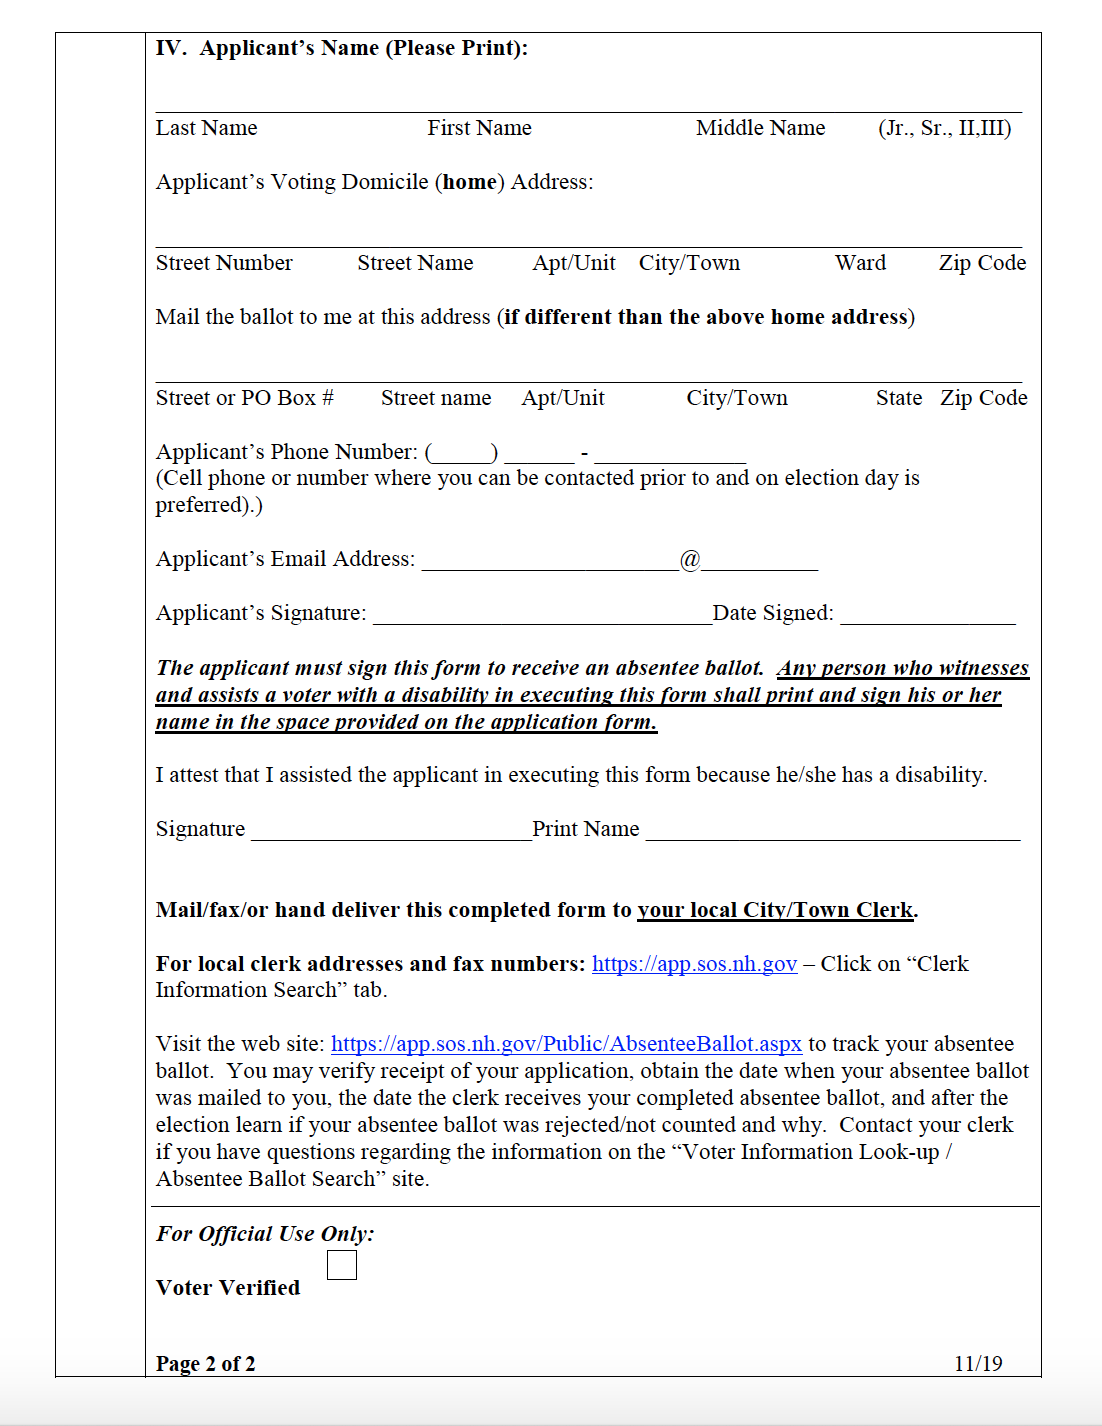
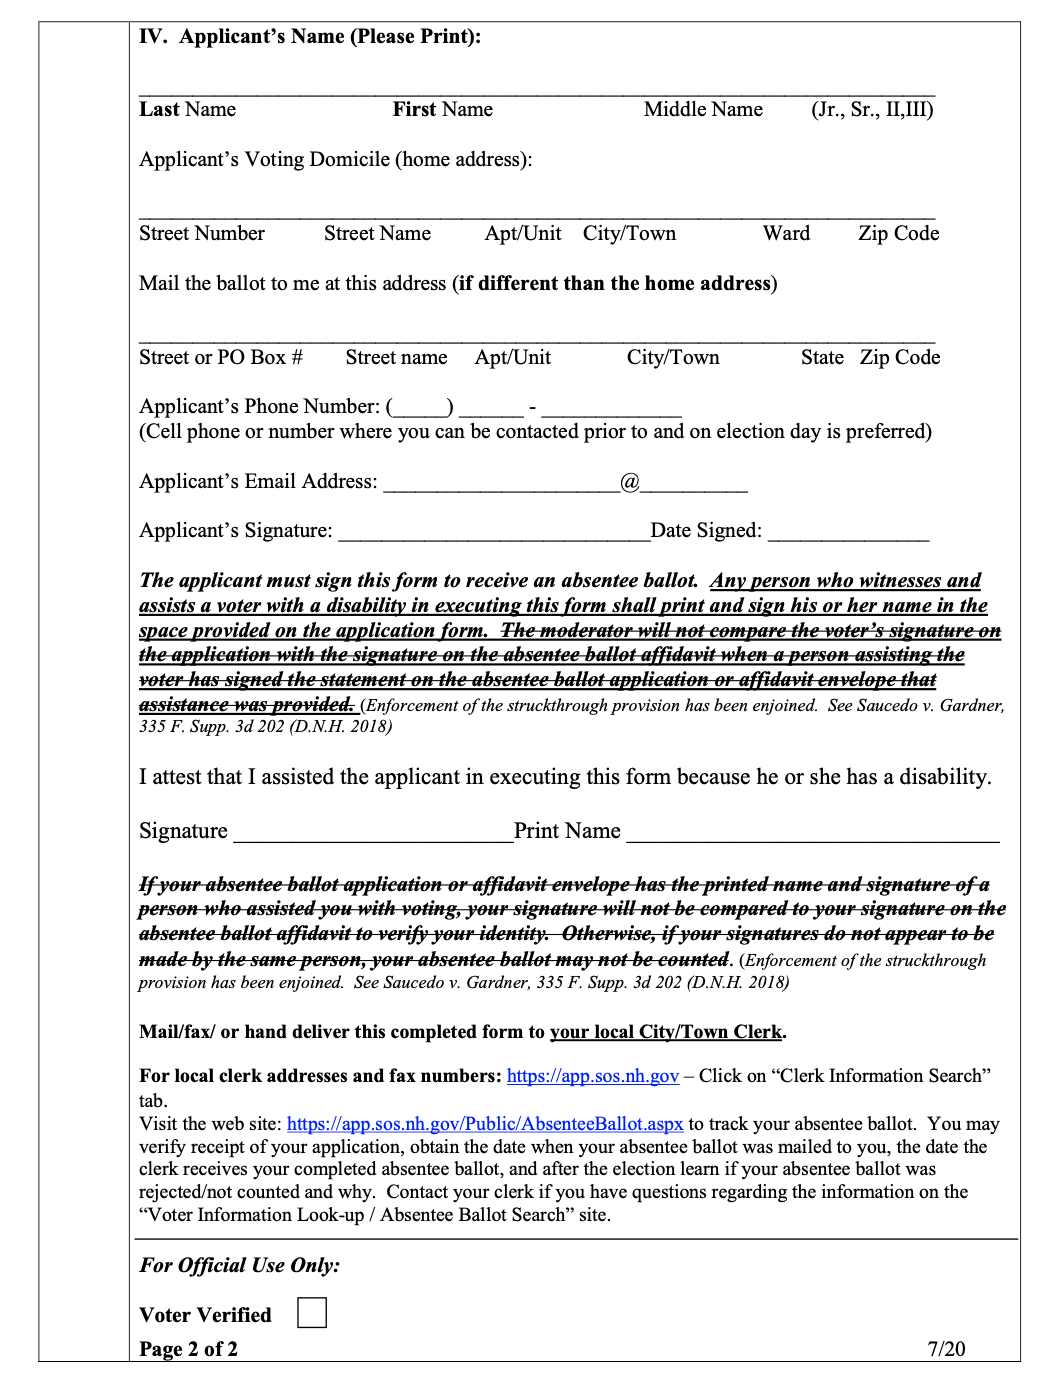
updated form

diff --git a/src/components/registration.js b/src/components/registration.js
@@ -48,6 +48,8 @@ class RegistrationForm extends Component {
       formCompleted: false,
       ballotEntitled: 0,
       errorMod: false,
+      stateGeneral: false,
+      statePrimary: false,
     };
     this.sigPad = {};
     this.sigPad2 = {};
@@ -158,8 +160,9 @@ class RegistrationForm extends Component {
                 <img className="application-image" src={CheckBoxes} alt="application-preview-firstpage" />
                 <img className={'qualifiedvoter-check-' + this.state.qualifiedVoter}  src={BallotCheck} alt="application-preview-qualifiedvoter" />
                 <img className={'ballotentitled-check-' + this.state.ballotEntitled}  src={BallotCheck} alt="application-preview-ballotentitled" />
+                {this.state.statePrimary && <img className={'stateprimary-check-' + this.state.statePrimary}  src={BallotCheck} alt="application-preview-partyaffiliation" />  }
+                {this.state.stateGeneral && <img className={'stategeneral-check-' + this.state.stateGeneral}  src={BallotCheck} alt="application-preview-partyaffiliation" /> }
                 <img className={'partyaffiliation-check-' + this.state.partyAffiliation}  src={BallotCheck} alt="application-preview-partyaffiliation" />
-                <img className='state-election-check' src={BallotCheck} alt="application-preview-stateelection" />
 
               </div>
               <div className="image" id="divToPrint2">
@@ -297,7 +300,7 @@ class RegistrationForm extends Component {
         <Modal.Header id="modal-form-header">
           <Modal.Title id="show-form-title">Request an Absentee Ballot</Modal.Title>
           <p className="show-form-description">This form is a one-step process to electronically submit an absentee
-          ballot request form for the state primary election in New Hampshire.</p>
+          ballot request form for the state primary and general election in New Hampshire.</p>
       </Modal.Header>
         <Modal.Body className="ballot-modal-body">
           <form id="applicant-info-form" onSubmit={this.handleSubmit}>
@@ -313,7 +316,7 @@ class RegistrationForm extends Component {
             <div className="form-data-container">
               <div className="formvalues-nhaddress-container">
                 <p className="form-title-container">Registered Address</p>
-                <p className="form-description-container">For students: Please enter your dorm address  from when you last cast a vote.</p>
+                <p className="form-description-container">For students: Please enter your dorm address from when you last cast a vote.</p>
                 <input className="ballot-form-labels-address" type="text" name="homeAddress" onChange={this.handleChange} placeholder="(ex: '307 Richardson Hall' or '3 Ivy Lane')" required/>
               </div>
             </div>
@@ -344,19 +347,27 @@ class RegistrationForm extends Component {
               <div className="formvalues-agreement-container">
                 <p className="form-radio-title-container">Please Select 1: I hereby declare that</p>
                 <p className="select-container"><input name="qualifiedVoter" type="radio" onChange={this.handleChangeRadio(1)} required/>  I am a duly qualified voter who is currently registered to vote in this town/ward.</p>
-                <p className="select-container"><input name="qualifiedVoter" type="radio" onChange={this.handleChangeRadio(2)} required/>  I am absent from the town/city where I am domiciled and will be until after the next election, 
-                or I am unable to register in person due to a disability, and request that the forms 
-                necessary for absentee voter registration be sent to me with the absentee ballot</p>
+                <p className="select-container"><input name="qualifiedVoter" type="radio" onChange={this.handleChangeRadio(2)} required/>  I am absent from the town/city where I am domiciled and will be until after the next election, or I am unable to 
+                register in person due to a disability or concern for the novel coronavirus (COVID-19) and request that the forms necessary for absentee voter registration be sent to me with the absentee ballot</p>
                 <p className="form-radio-title-container">Please Select 1: I will be entitled to vote by absentee ballot because </p>
                 <p className="select-container"><input name="ballotEntitled" type="radio" onChange={this.handleChangeRadio(1)} required/>  I plan to be absent on the day of the election from the city, town, or unincorporated place where I am domiciled.</p>
-                <p className="select-container"><input name="ballotEntitled" type="radio" onChange={this.handleChangeRadio(2)} required/>  I am requesting a ballot for the presidential primary election and I may be absent on the day of election from the city, 
-                town, or unincorporated place where I am domiciled, but the date of the election has not been announced. I understand that I may only make such a request 14 days after the filing period for 
-                candidates has closed, and that if I will not be absent on the date of the election I am not eligible to vote by absentee ballot.</p>
-                <p className="select-container"><input name="ballotEntitled" type="radio" onChange={this.handleChangeRadio(3)} required/>  I cannot appear in public on election day because of observance of a religious commitment.</p>
-                <p className="select-container"><input name="ballotEntitled" type="radio" onChange={this.handleChangeRadio(4)} required/>  I am unable to vote in person due to a disability.</p>
-                <p className="select-container"><input name="ballotEntitled" type="radio" onChange={this.handleChangeRadio(5)} required/>  I cannot appear at any time during polling hours at my polling place because of an employment obligation. For the 
-                purposes of this application, the term “employment” shall include the care of children and infirm adults, with or without compensation.</p>
-                <p className="form-radio-title-container">Please complete the following information:</p>
+                <p className="select-container"><input name="ballotEntitled" type="radio" onChange={this.handleChangeRadio(2)} required/>  I cannot appear in public on election day because of observance of a religious commitment.</p>
+                <p className="select-container"><input name="ballotEntitled" type="radio" onChange={this.handleChangeRadio(3)} required/>  I am unable to vote in person due to a disability.</p>
+                <p className="select-container"><input name="ballotEntitled" type="radio" onChange={this.handleChangeRadio(4)} required/>  I am unable to vote in person due to concern for the novel coronavirus (COVID-19).</p>
+                <p className="select-container"><input name="ballotEntitled" type="radio" onChange={this.handleChangeRadio(5)} required/>  I cannot appear at any time during polling hours at my polling place because of an employment obligation. 
+                For the purposes of this application the term “employment” shall include the care of children and infirm adults, with or without compensation.</p>
+                <p className="form-radio-title-container">Please complete the following information</p>
+                <p>I am requesting an official absentee ballot for the following election(s):</p>
+                <p className="select-container"><input
+                name="statePrimary"
+                type="checkbox"
+                checked={this.state.statePrimary}
+                onChange={this.handleChangeSelected} required/> State Primary Election to be held on September 8, 2020</p> 
+                <p className="select-container"><input
+                name="stateGeneral"
+                type="checkbox"
+                checked={this.state.stateGeneral}
+                onChange={this.handleChangeSelected}/> State General Election to be held on November 3, 2020</p> 
                 <p className="select-container"><input
                 name="partyAff"
                 type="checkbox"
@@ -427,7 +438,7 @@ class RegistrationForm extends Component {
       return (
         <div className="thank-you-note">
           <p className="thank-you-title">Thank you!</p>
-          <p className="thank-you-description">Thank you for applying for an absentee ballot. It will be delivered late August. Happy election season!</p>
+          <p className="thank-you-description">Thank you for applying for an absentee ballot. Happy election season!</p>
         </div>
       )
     }

diff --git a/src/styles/registration.scss b/src/styles/registration.scss
@@ -243,109 +243,117 @@
     .qualifiedvoter-check-1 {
       width: 6px;
       position: absolute;
-      top: 57px;
-      left: 54px;
+      top: 67px;
+      left: 53px;
     }
 
     .qualifiedvoter-check-2 {
       width: 6px;
       position: absolute;
-      top: 67px;
-      left: 54px;
+      top: 77px;
+      left: 53px;
     }
 
     .ballotentitled-check-1 {
       width: 6px;
       position: absolute;
-      top: 108px;
-      left: 54px;
+      top: 140px;
+      left: 53px;
     }
 
     .ballotentitled-check-2 {
       width: 6px;
       position: absolute;
-      top: 128px;
-      left: 54px;
+      top: 162px;
+      left: 53px;
     }
 
     .ballotentitled-check-3 {
       width: 6px;
       position: absolute;
-      top: 178px;
-      left: 54px;
+      top: 183px;
+      left: 53px;
     }
 
     .ballotentitled-check-4 {
       width: 6px;
       position: absolute;
-      top: 200px;
-      left: 54px;
+      top: 194px;
+      left: 53px;
     }
 
     .ballotentitled-check-5 {
       width: 6px;
       position: absolute;
-      top: 210px;
-      left: 54px;
+      top: 205px;
+      left: 53px;
+    }
+
+    .stateprimary-check-true {
+      width: 6px;
+      position: absolute;
+      top: 298px;
+      left: 70px;
+    }
+
+
+    .stategeneral-check-true {
+      width: 6px;
+      position: absolute;
+      top: 319px;
+      left: 70px;
     }
 
     .partyaffiliation-check-Democrat {
       width: 6px;
       position: absolute;
-      top: 424px;
-      left: 149px;
+      top: 382px;
+      left: 64px;
     }
 
     .partyaffiliation-check-Republican {
       width: 6px;
       position: absolute;
-      top: 424px;
-      left: 229px;
-    }
-
-    .state-election-check {
-      width: 6px;
-      position: absolute;
-      top: 412px;
-      left: 54px;
+      top: 371px;
+      left: 65px;
     }
 
     .image-last-name {
-      top: 30px;
-      left: 60px;
+      top: 26px;
+      left: 57px;
       width: 100%;
     }
 
     .image-first-name {
-      top: 30px;
-      left: 156px;
+      top: 26px;
+      left: 150px;
       width: 100%;
     }
 
     .image-middle-name {
-      top: 30px;
-      left: 250px;
+      top: 26px;
+      left: 247px;
       width: 100%;
     }
 
     .image-title {
-      top: 30px;
-      left: 330px;
+      top: 26px;
+      left: 327px;
       width: 100%;
     }
     .image-home-address {
-      top: 80px;
-      left: 56px;
+      top: 73px;
+      left: 53px;
       width: 100%;
     }
     .image-cityname-h {
-      top: 80px;
-      left: 230px;
+      top: 73px;
+      left: 227px;
       width: 100%;
     }
     .image-ziopcode-h {
-      top: 80px;
-      left: 340px;
+      top: 73px;
+      left: 330px;
       width: 100%;
     }
 
@@ -356,104 +364,104 @@
 
     }
     .image-street-number {
-      top: 127px;
-      left: 60px;
+      top: 120px;
+      left: 57px;
       width: 100%;
       position: absolute;
     }
     .image-street-name {
-      top: 127px;
+      top: 120px;
       left: 100px;
       width: 100%;
       position: absolute;
     }
 
     .image-aptNum {
-      top: 127px;
+      top: 120px;
       left: 190px;
       width: 100%;
       position: absolute;
     }
     .image-cityname-m {
-      top: 127px;
-      left: 234px;
+      top: 120px;
+      left: 223px;
       width: 100%;
       position: absolute;
     }
 
     .image-statename-m {
-      top: 127px;
-      left: 310px;
+      top: 120px;
+      left: 300px;
       width: 100%;
       position: absolute;
     }
 
     .image-zipcode-m {
-      top: 127px;
-      left: 347px;
+      top: 120px;
+      left: 345px;
       width: 100%;
       position: absolute;
     }
 
     .image-phone-number-first3 {
-      top: 158px;
-      left: 161px;
+      top: 148px;
+      left: 155px;
       width: 100%;
       position: absolute;
     }
 
     .image-phone-number-middle3 {
-      top: 158px;
-      left: 183px;
+      top: 148px;
+      left: 180px;
       width: 100%;
       position: absolute;
     }
 
     .image-phone-number-last4 {
-      top: 158px;
-      left: 220px;
+      top: 148px;
+      left: 217px;
       width: 100%;
       position: absolute;
     }
 
     .image-email-address-beginning {
-      top: 196px;
+      top: 176px;
       left: 153px;
       width: 100%;
       position: absolute;
     }
 
     .image-email-address-ending {
-      top: 196px;
+      top: 176px;
       left: 255px;
       width: 100%;
       position: absolute;
     }
 
     .image-signature {
-      top: 213px;
+      top: 197px;
       left: 150px;
-      width: 10%;
+      width: 15%;
       position: absolute;
     }
 
     .image-date-signed {
-      top: 215px;
-      left: 304px;
+      top: 195px;
+      left: 300px;
       width: 100%;
       position: absolute;
     }
 
     .image-disabled-name {
-      top: 294px;
+      top: 310px;
       left: 240px;
       width: 100%;
       position: absolute;
     }
 
     .image-signature2 {
-      top: 290px;
-      left: 100px;
+      top: 305px;
+      left: 95px;
       width: 10%;
       position: absolute;
     }

diff --git a/src/components/pageheader.js b/src/components/pageheader.js
@@ -17,7 +17,7 @@ class PageHeader extends Component {
           <img src={Combined} alt="new-hamp-icon" className="new-hamp-icon"></img>
         </>
         <div className="header-title-container">
-          <p className="title-top-content">Hanover Absentee Ballot - State Primary</p>
+          <p className="title-top-content">Hanover Absentee Ballot</p>
           <p className="title-bottom-content">"Live free or die" out of town</p>
         </div>
       </div>
